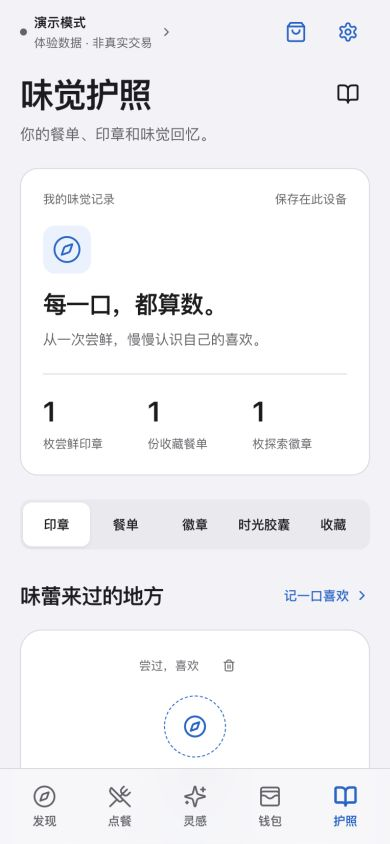
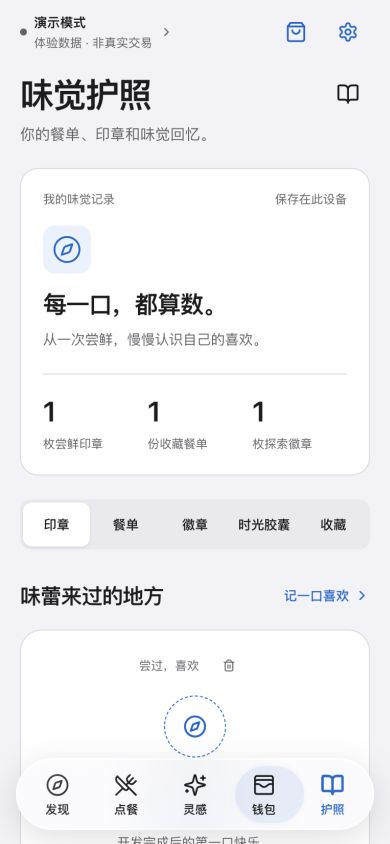
Restore floating glass navigation with sliding selection

Changed region(s): [[0.2769, 0.8934, 0.7385, 1.0], [0.8, 0.8934, 0.9231, 0.9858], [0.0615, 0.8934, 0.1846, 0.9858]]

diff --git a/src/ios.css b/src/ios.css
@@ -1,4 +1,7 @@
 /* Content-first iOS-inspired web presentation. Native controls remain HTML. */
+.nav-selection {
+  display: none;
+}
 :root {
   --background: #f2f2f7;
   --surface: #ffffff;
@@ -490,7 +493,7 @@ h2 {
     gap: 7px;
   }
   .page {
-    padding: 8px 20px calc(100px + env(safe-area-inset-bottom));
+    padding: 8px 20px calc(120px + env(safe-area-inset-bottom));
   }
   .page-title {
     margin-top: 0;
@@ -549,29 +552,68 @@ h2 {
     min-height: 44px;
   }
   .bottom-nav {
-    bottom: 0;
-    left: 0;
-    right: 0;
-    width: 100%;
-    max-width: none;
-    transform: none;
-    border-radius: 0;
-    border: 0;
-    border-top: 1px solid var(--line);
+    position: fixed;
+    isolation: isolate;
+    gap: 0;
+    bottom: calc(14px + env(safe-area-inset-bottom));
+    left: 50%;
+    right: auto;
+    width: calc(100% - 32px);
+    max-width: 480px;
+    transform: translateX(-50%);
+    border-radius: 40px;
+    border: 1px solid rgb(255 255 255 / 65%);
     height: auto;
-    min-height: 76px;
-    padding: 6px 8px calc(8px + env(safe-area-inset-bottom));
-    background: var(--glass);
-    box-shadow: none;
-    backdrop-filter: blur(20px);
+    min-height: 72px;
+    padding: 6px;
+    background: rgb(250 250 253 / 72%);
+    box-shadow:
+      0 8px 32px rgb(0 0 0 / 13%),
+      inset 0 1px 0 rgb(255 255 255 / 85%),
+      inset 0 -1px 0 rgb(255 255 255 / 30%);
+    -webkit-backdrop-filter: blur(28px) saturate(150%);
+    backdrop-filter: blur(28px) saturate(150%);
+  }
+  .bottom-nav::before {
+    content: '';
+    position: absolute;
+    inset: 0;
+    pointer-events: none;
+    border-radius: inherit;
+    background: linear-gradient(
+      150deg,
+      rgb(255 255 255 / 28%),
+      transparent 36%,
+      transparent 70%,
+      rgb(255 255 255 / 14%)
+    );
+    z-index: 3;
+  }
+  .bottom-nav .nav-selection {
+    display: block;
+    position: absolute;
+    z-index: 0;
+    top: 6px;
+    bottom: 6px;
+    left: 6px;
+    width: calc((100% - 12px) / 5);
+    border-radius: 32px;
+    background: rgb(0 102 204 / 10%);
+    box-shadow:
+      inset 0 1px 0 rgb(255 255 255 / 75%),
+      0 1px 5px rgb(0 0 0 / 4%);
+    transform: translateX(calc(var(--tab-index) * 100%));
+    transition: transform 260ms cubic-bezier(0.2, 0.8, 0.2, 1);
   }
   .bottom-nav button {
-    min-height: 56px;
+    position: relative;
+    z-index: 1;
+    min-height: 58px;
     flex: 1;
     gap: 4px;
     padding: 6px 0;
-    border-radius: 10px;
-    color: var(--secondary);
+    border-radius: 32px;
+    color: var(--label);
     font-size: 0.706rem;
     font-weight: 500;
     background: transparent;
@@ -626,6 +668,7 @@ h2 {
 @media (prefers-reduced-transparency: reduce) {
   .bottom-nav {
     background: var(--surface);
+    -webkit-backdrop-filter: none;
     backdrop-filter: none;
   }
 }
@@ -673,5 +716,38 @@ h2 {
 @media (max-width: 760px) {
   .topbar {
     height: auto;
+  }
+}
+
+@media (prefers-color-scheme: dark) and (max-width: 760px) {
+  .bottom-nav {
+    background: rgb(34 34 38 / 72%);
+    border-color: rgb(255 255 255 / 20%);
+    box-shadow:
+      0 8px 32px rgb(0 0 0 / 35%),
+      inset 0 1px 0 rgb(255 255 255 / 18%);
+  }
+  .bottom-nav .nav-selection {
+    background: rgb(255 255 255 / 12%);
+    box-shadow: inset 0 1px 0 rgb(255 255 255 / 20%);
+  }
+}
+@media (prefers-reduced-transparency: reduce) {
+  .bottom-nav {
+    background: var(--surface);
+  }
+  .bottom-nav::before {
+    display: none;
+  }
+}
+@media (prefers-contrast: more) {
+  .bottom-nav {
+    background: var(--surface);
+    border-color: var(--secondary);
+  }
+}
+@media (prefers-reduced-motion: reduce) {
+  .bottom-nav .nav-selection {
+    transition: none;
   }
 }

diff --git a/src/App.tsx b/src/App.tsx
@@ -121,7 +121,9 @@ function App() {
     <nav
       className={desktop ? 'desktop-nav' : 'bottom-nav'}
       aria-label={desktop ? '主导航' : '底部导航'}
+      style={{ '--tab-index': tabs.findIndex((tab) => tab.key === a.tab) } as React.CSSProperties}
     >
+      <span className="nav-selection" aria-hidden="true" />
       {tabs.map(({ key, name, Icon }) => (
         <button
           className={a.tab === key ? 'current' : ''}

diff --git a/docs/APPLE_REDESIGN.md b/docs/APPLE_REDESIGN.md
@@ -76,3 +76,9 @@
 - `npm run check`：48 项业务 / 安全测试、TypeScript、Vite 生产构建。UI 视觉判断主要来自浏览器检查，48 项测试不等于视觉合规测试。
 
 仍需真实 iPhone / VoiceOver、系统字号与系统手势验证；Web 模糊不是原生 Liquid Glass。不能保证每条 HIG 全部满足，也不把“安装了 skill”当作 Apple 设计认证。
+
+## 悬浮玻璃导航恢复
+
+上一轮误将悬浮导航替换为贴底栏，违背用户要求。本次恢复离底 14px 加安全区、两侧 16px 留白、圆角胶囊；使用 72% 半透明填充、28px 背景模糊与饱和度增强、细边缘高光和柔和阴影。选中态由一个独立高光滑块随当前标签移动。
+
+依据 `liquid-glass.md › The two layers`，玻璃仅用于悬浮导航功能层，内容面保持实色。这里是 Web 对玻璃效果的近似实现。减少透明度时使用实色，减少动态效果时禁用滑动过渡，高对比度时增强边界。
